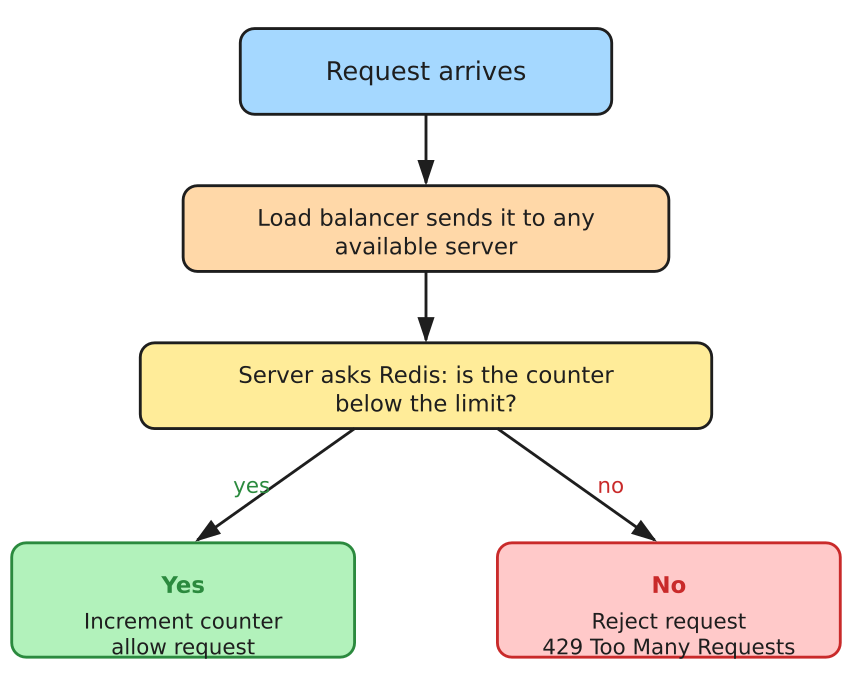
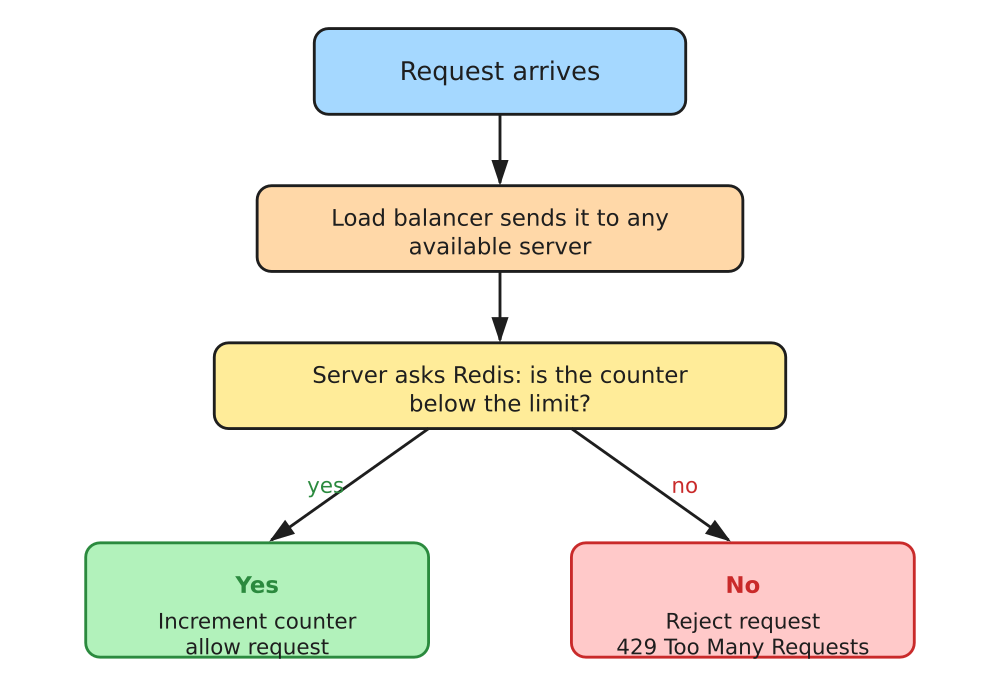
phase 5

Changed region(s): [[0.0, 0.0312, 1.0, 0.9985], [0.3645, 0.0936, 0.6379, 0.1248]]

diff --git a/src/main/java/com/anmol/distrilimit/RedisTokenBucket.java b/src/main/java/com/anmol/distrilimit/RedisTokenBucket.java
@@ -1,12 +1,23 @@
 package com.anmol.distrilimit;
 
+import org.springframework.core.io.ClassPathResource;
 import org.springframework.data.redis.core.StringRedisTemplate;
+import org.springframework.data.redis.core.script.DefaultRedisScript;
+
+import java.util.List;
 
 public class RedisTokenBucket {
     private final StringRedisTemplate redisTemplate;
     private final String clientId;
     private final int capacity;
     private final double refillRatePerSecond;
+
+    private static final DefaultRedisScript<Long> SCRIPT = new DefaultRedisScript<>();
+
+    static {
+        SCRIPT.setLocation(new ClassPathResource(("token_bucket.lua")));
+        SCRIPT.setResultType(Long.class);
+    }
 
     public RedisTokenBucket(StringRedisTemplate redisTemplate, String clientId, int capacity,double refillRatePerSecond) {
         this.redisTemplate = redisTemplate;
@@ -18,28 +29,18 @@ public class RedisTokenBucket {
     public boolean tryConsume(){
         String tokensKey="bucket:"+clientId+":tokens";
         String timestampsKey="bucket:"+clientId+":timestamps";
-
-        String tokenStr=redisTemplate.opsForValue().get(tokensKey);
-        String timestampStr=redisTemplate.opsForValue().get(timestampsKey);
-
-        double currentTokens=(tokenStr!=null)? Double.parseDouble(tokenStr):capacity;
-        long lastRefill=(timestampStr!=null)? Long.parseLong(timestampStr):System.currentTimeMillis();
-
         long now=System.currentTimeMillis();
-        double secondsElapsed=(now-lastRefill)/1000.0;
-        currentTokens=Math.min(capacity,currentTokens+secondsElapsed*refillRatePerSecond);
 
-        boolean allowed;
-        if(currentTokens>=1){
-            currentTokens-=1;
-            allowed=true;
-        }else{
-            allowed=false;
-        }
+        List<String> keys=List.of(tokensKey,timestampsKey);
 
-        redisTemplate.opsForValue().set(tokensKey,String.valueOf(currentTokens));
-        redisTemplate.opsForValue().set(timestampsKey,String.valueOf(now));
+        Long result = redisTemplate.execute(
+                SCRIPT,
+                keys,
+                String.valueOf(capacity),
+                String.valueOf(refillRatePerSecond),
+                String.valueOf(now)
+        );
 
-        return allowed;
+        return result!=null && result==1L;
     }
 }

diff --git a/README.md b/README.md
@@ -55,6 +55,31 @@ Configured limit = 5
 
 ![Comparison](diagrams/comparison.png)
 
+## Proof: tested across real, separate server instances
+
+The theory above was verified with an actual multi-instance test, not just reasoned through. Three separate instances of this application were built into one jar and run as three independent processes on three different ports, all connecting to the same Redis container.
+
+![Multi-instance test](diagrams/multi-instance-test.png)
+
+```
+Setup
+  capacity            = 5
+  three instances     = localhost:8081, localhost:8082, localhost:8083
+  each instance       = a separate JVM process, started from the same jar
+  shared state        = one Redis container, same host and port for all three
+
+Test
+  10 requests fired concurrently, spread across all three ports
+  (a mix hitting 8081, 8082, and 8083, not sent to one server at a time)
+
+Result
+  5 requests allowed
+  5 requests rejected
+  total across all three instances combined, not per instance
+```
+
+If each instance were tracking its own separate count, the correct-looking but wrong result would have been up to 15 allowed (5 per instance, since none of them would know about the other two). Getting exactly 5 confirms the limit is enforced correctly across the whole group, which is the actual point of a distributed rate limiter.
+
 ## Request flow
 
 ![Request flow](diagrams/flow.png)
